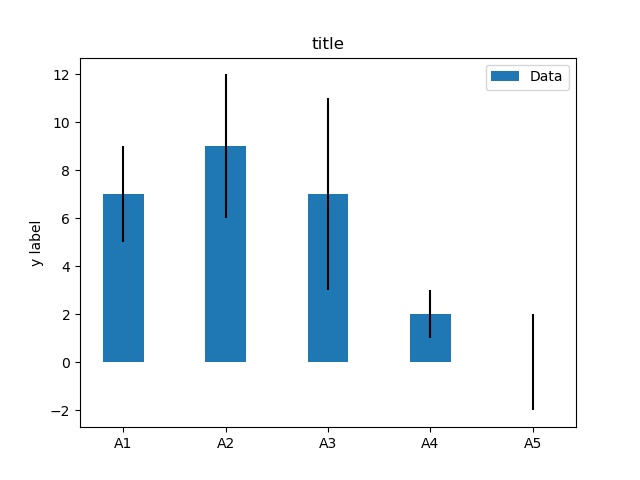
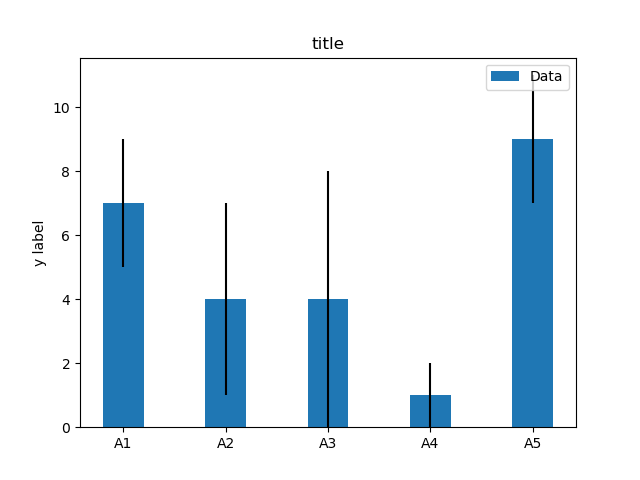
first commit

diff --git a/example.py b/example.py
@@ -2,7 +2,7 @@ import numpy as np
 import matplotlib.pyplot as plt
 
 labels = ['A1', 'A2', 'A3', 'A4', 'A5']
-m_means = [7,9,7,2,0]
+m_means = [7,4,4,1,9]
 m_std = [2, 3, 4, 1, 2]
 width = 0.40       # the width of the bars
 

diff --git a/README.md b/README.md
@@ -1,4 +1,4 @@
-# Matplotlib no 163 
+# Matplotlib no 164 
 
 python example
 
